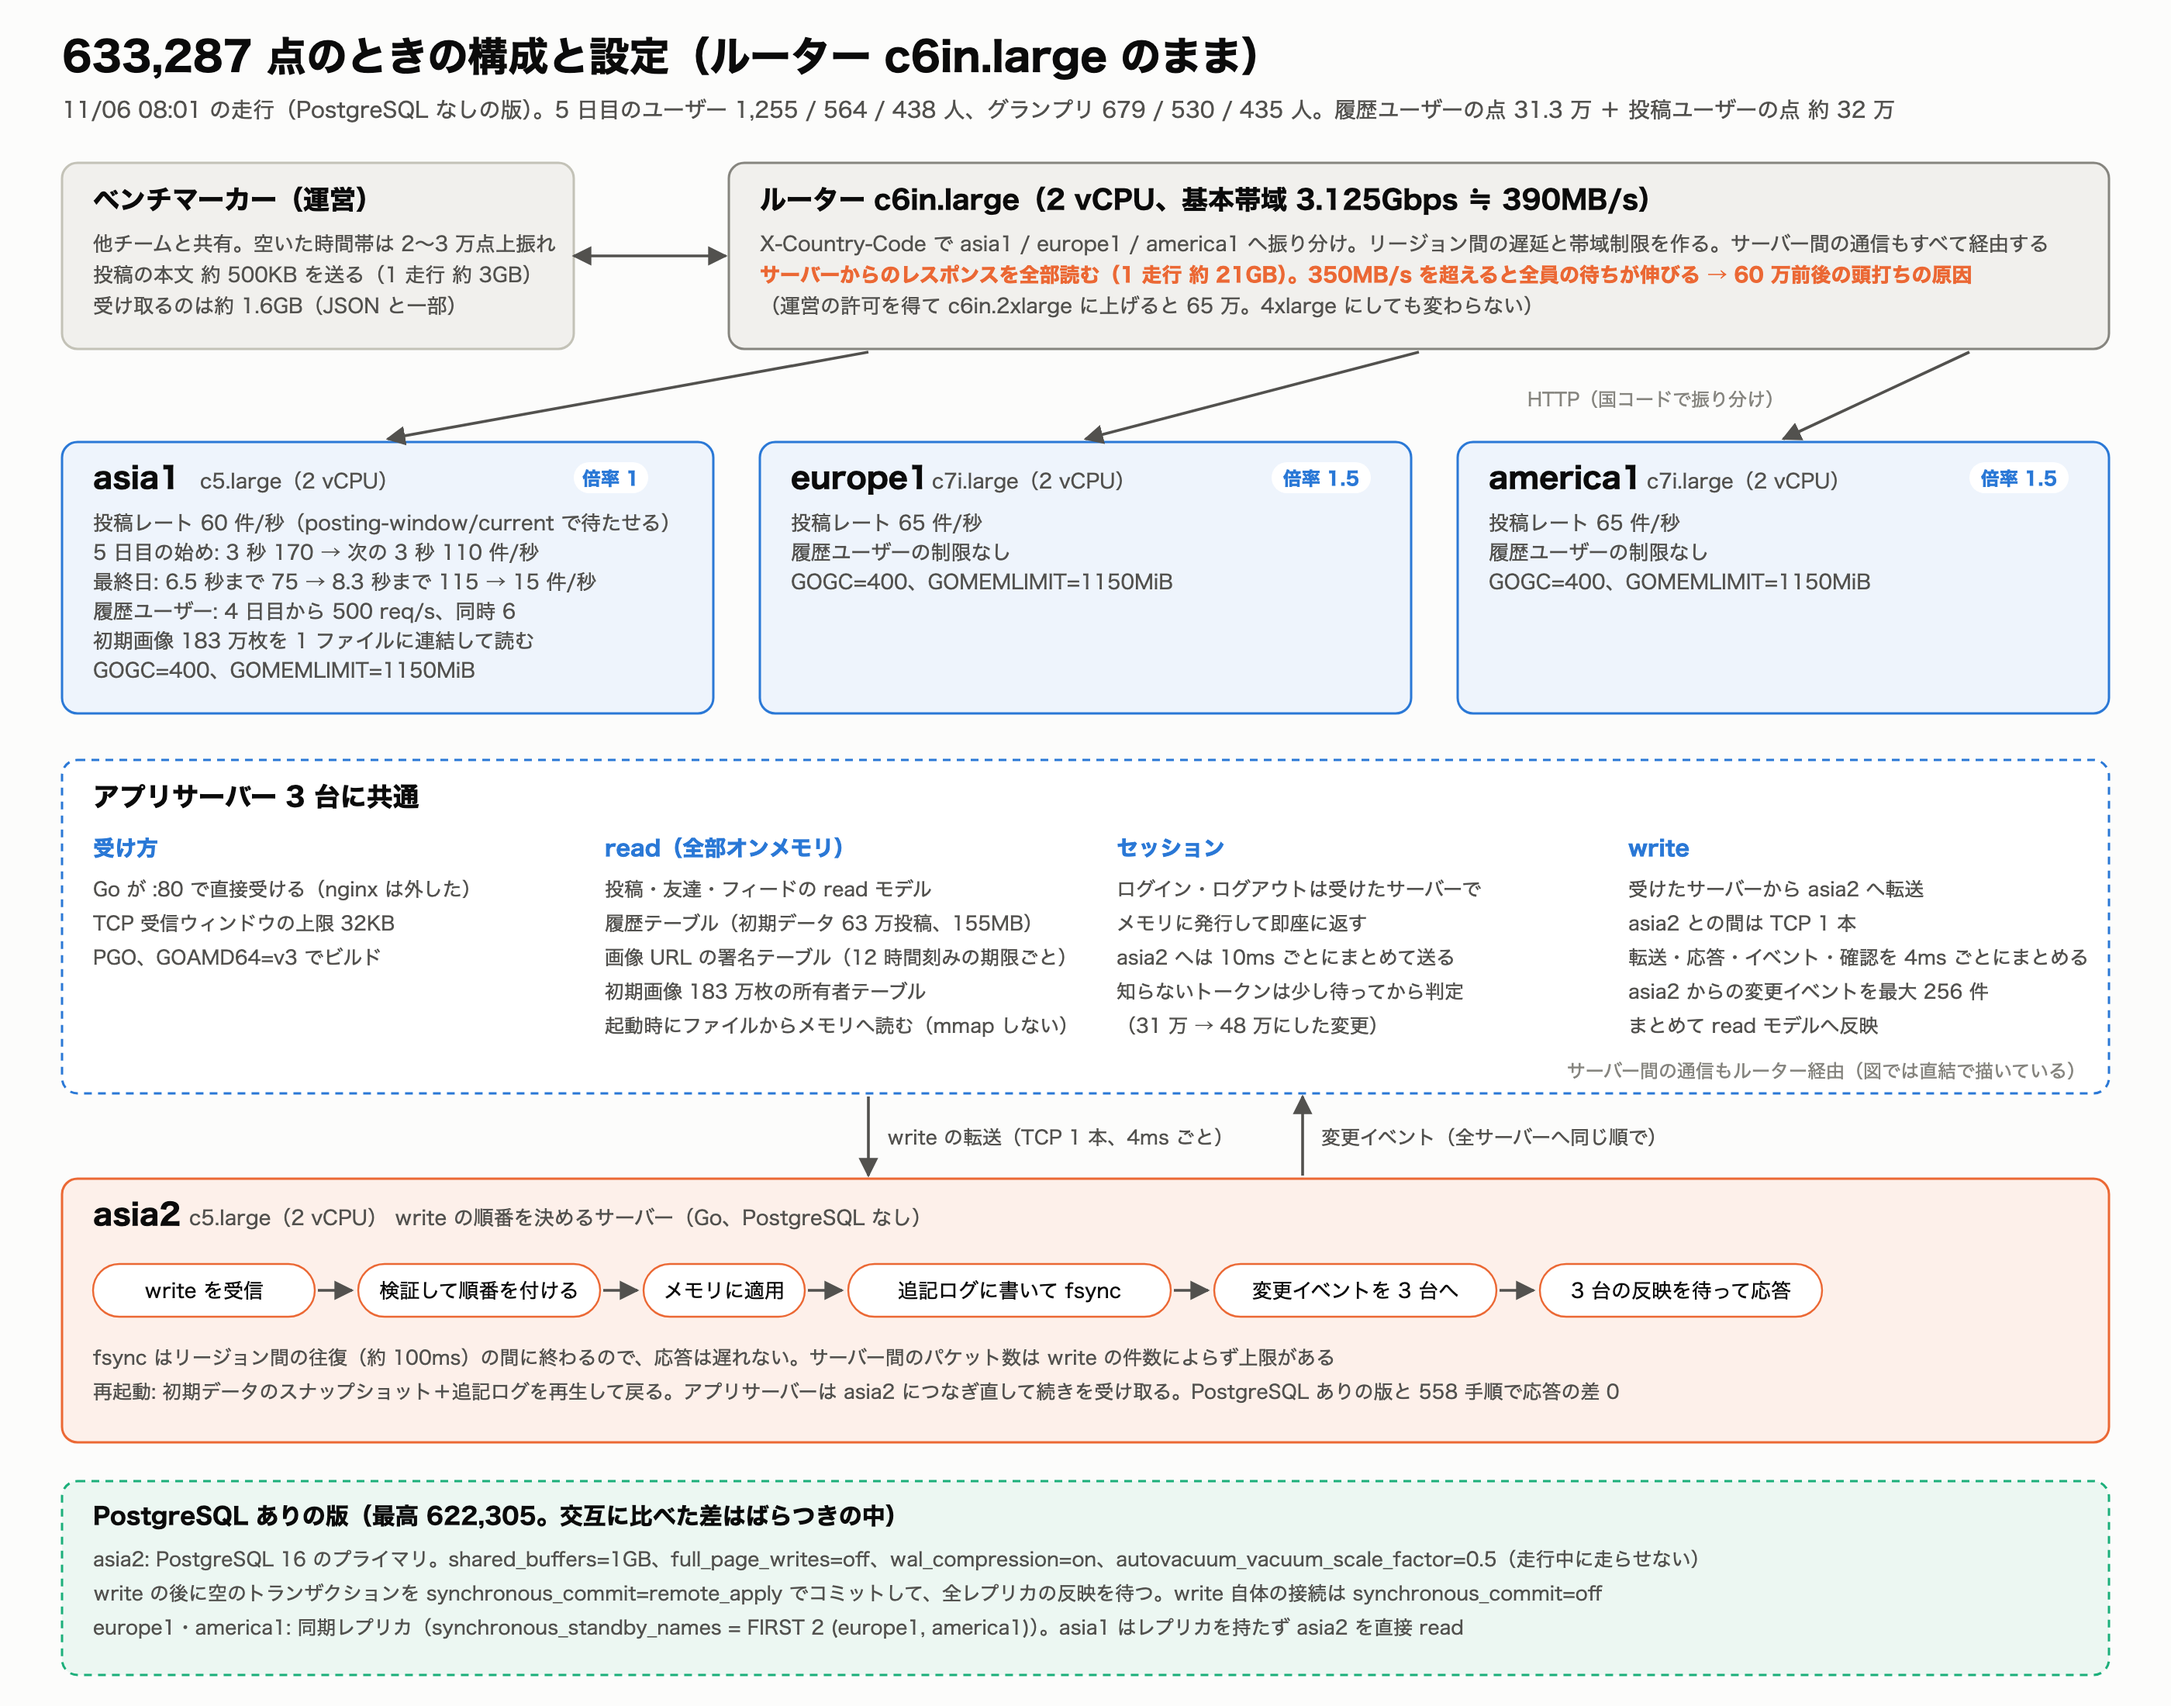
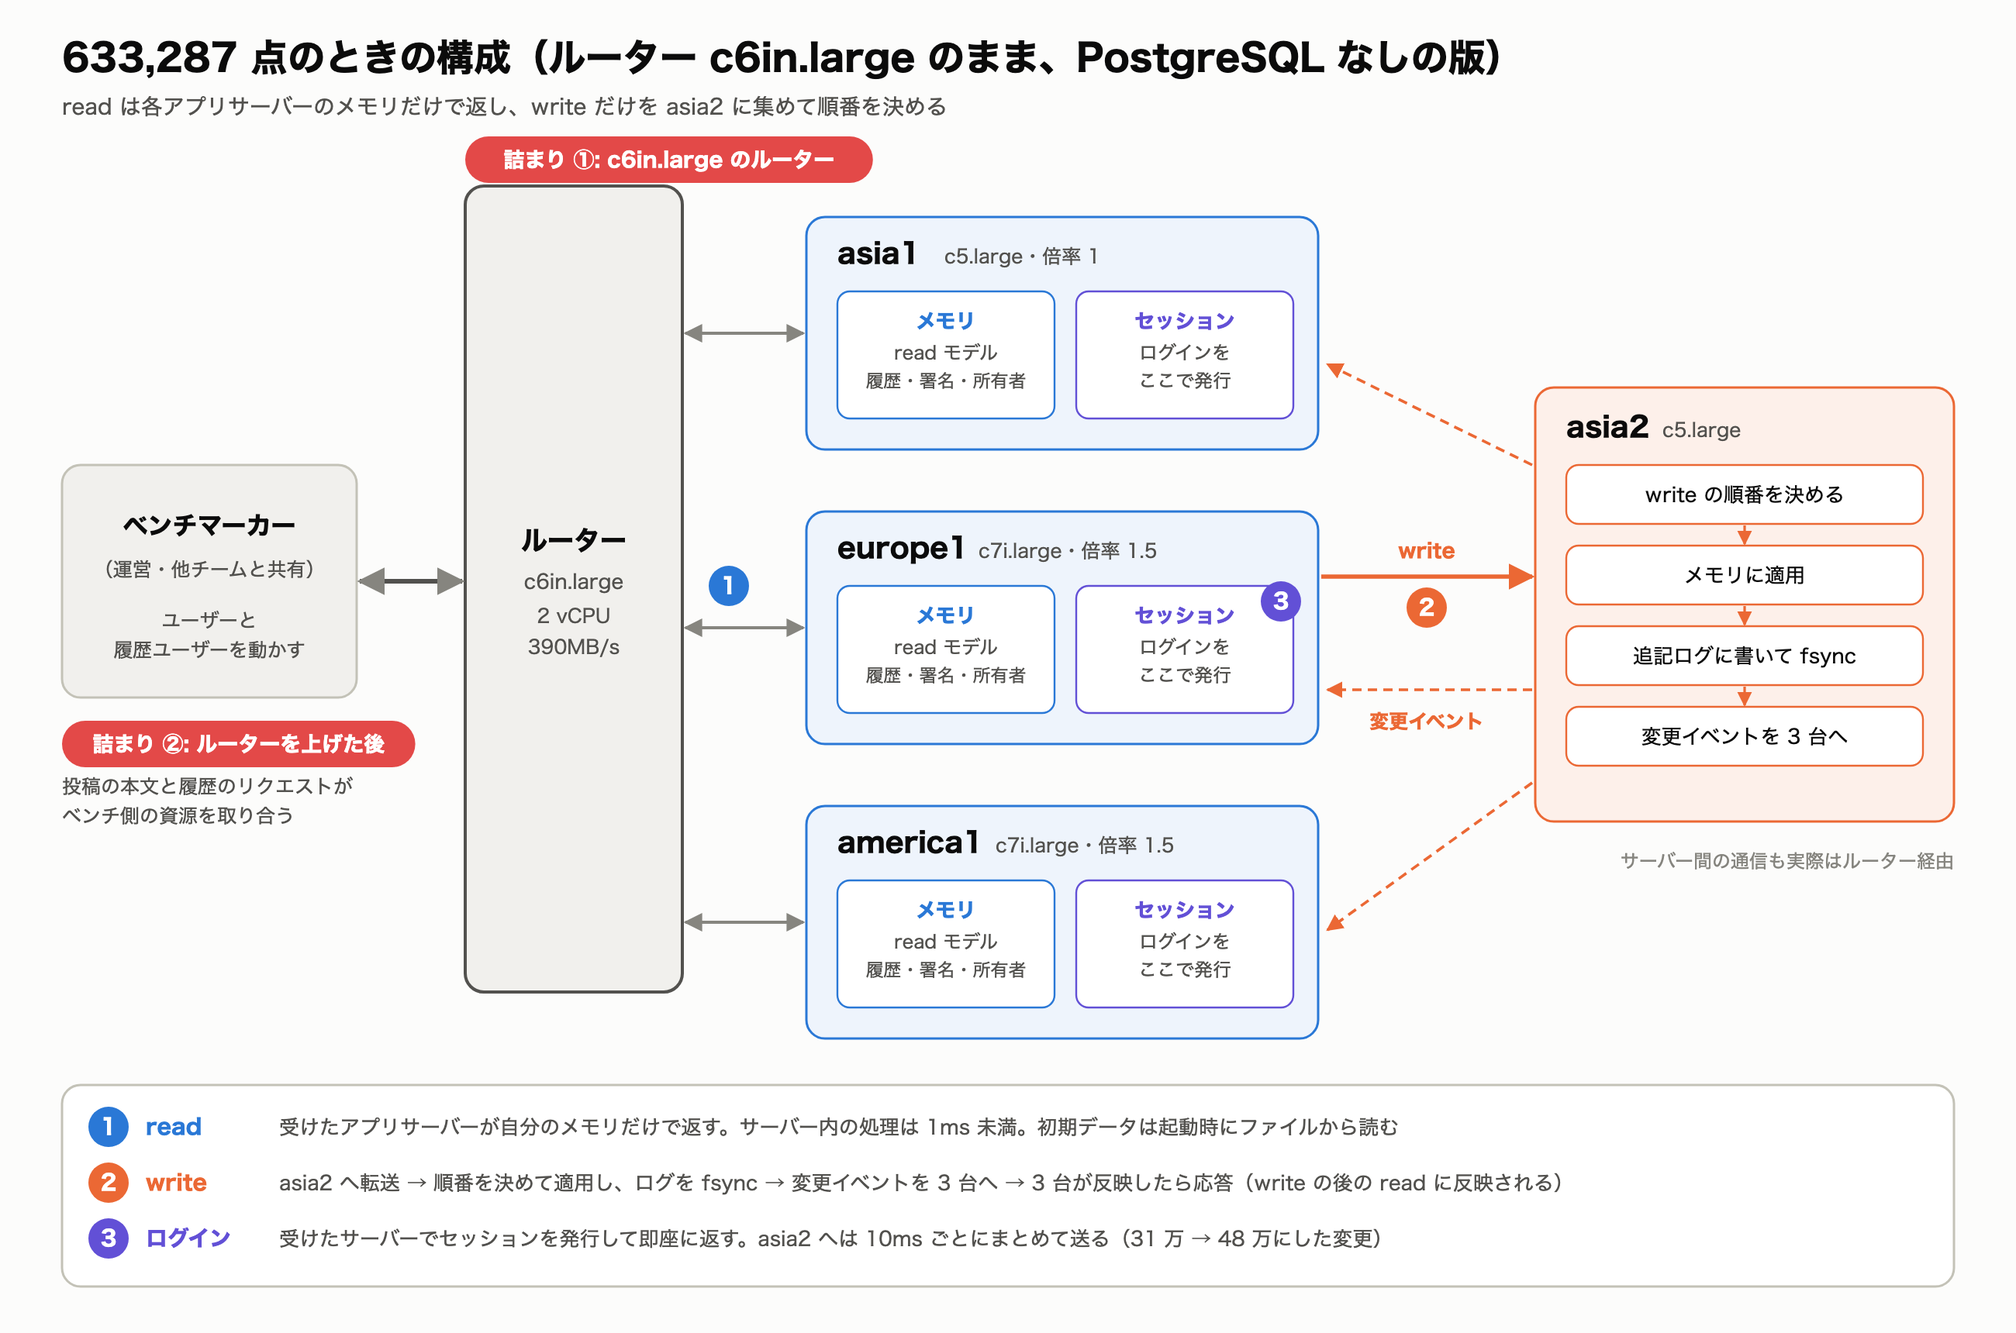
構成図を流れの図に描き直し、設定の表と構成の理由を足す
構成図は read・write・ログインの経路と詰まりの位置だけにした。
サーバーごとの設定は表の図にし、構成にした理由を判断の記録から節にまとめた。
メモリの記述（2GB）を 4GB に直す。

Claude-Session: https://claude.ai/code/session_01L2L4qgADaDYs3drh8gtj2E

diff --git a/articles/isucon2026-kansousen-630k.md b/articles/isucon2026-kansousen-630k.md
@@ -126,7 +126,7 @@ published: false
 
 ## ルーターを上げずに出した 63 万点の構成
 
-![633,287 点のときの構成と設定。ベンチマーカーとルーター、アプリサーバー 3 台の設定、3 台に共通の read・セッション・write の仕組み、write の順番を決める asia2、PostgreSQL ありの版の設定](/images/isucon2026-architecture-630k.png)
+![633,287 点のときの構成。ベンチマーカーからルーターを通って asia1・europe1・america1 に届き、read は各サーバーのメモリで返し、write は asia2 で順番を決めて変更イベントを 3 台へ流す。ログインは受けたサーバーで発行する。詰まりはルーターと、ルーターを上げた後はベンチ側](/images/isucon2026-architecture-630k.png)
 
 最高の 633,287 点（11/06 朝 8 時の走行）は、PostgreSQL をなくした版で出ました。PostgreSQL ありの版の最高は 622,305 点で、交互に比べた差はばらつきの中です。どちらも、アプリの外側の設定は同じです。
 
@@ -143,6 +143,27 @@ published: false
 - write は受けたサーバーから asia2 へ転送します。asia2 が順番を決めて適用し、変更イベントを 3 台へ流します。3 台が適用し終えてからレスポンスを返すので、「write の後の read には反映する」という決まりを守れます。
 - ログイン・ログアウトだけは、受けたサーバーで処理します（上の 48 万の節）。
 
+### なぜこの形にしたか
+
+どれも、エージェントが判断の記録に「見たもの → 考え → 決めたこと」として残したものです。
+
+| 決めたこと | 理由（見たもの） |
+|---|---|
+| read を各アプリサーバーのメモリで返す | リージョン間の往復は約 100ms あり、リクエストの大半は read です。履歴ユーザーは closed-loop なので、read が速いほど点になります。DB から read していたときは、asia1 が CPU とディスク（gp3 の 3,000 IOPS）で飽和していました |
+| write を asia2 の 1 台に集める | 1 か所で順番を決めれば、3 台が同じ順に反映でき、整合性を保ちやすくなります。asia2 はユーザーの最も多い asia にあるので、asia の write はリージョン内で済みます。CPU の速い europe1（c7i）に移す案もありましたが、asia の write が全部 100ms の往復を払うことになるので採りませんでした |
+| 3 台の反映を待ってから応答する | 「write の後の read には反映する（リージョンをまたぐ場合も同じ）」という決まりを守るためです |
+| ログインだけは受けたサーバーで処理する | ログインに配点はなく、履歴ユーザーの 1 サイクルの 9 割以上がログインの待ちでした |
+| asia1 にはレプリカを置かない（PostgreSQL ありの版） | asia2 と同じリージョンで往復が小さいからです。レプリカをやめると、WAL の適用、DB の問い合わせ、shared_buffers と画像のページキャッシュの取り合いが asia1 から消えます |
+| nginx を外し、Go が :80 で直接受ける | nginx を挟むとリクエストごとの通信が増え、asia1 の CPU の約 2 割を使っていました |
+| 履歴と署名のテーブルを起動時にメモリへ読む | mmap にしたところ、read ロックを持ったままディスクを待ち、全体が約 10 秒止まって FAIL しました |
+| 初期画像を asia1 だけ 1 ファイルに連結する | ディスクの IOPS の上限に当たっていたのは asia1 だけで、europe1・america1 には余裕がありました |
+| 署名の有効期限を 12 時間刻みにそろえる | 24 時間刻みだと、時刻によっては期限が発行から 24 時間を超え、06〜07 時（UTC）の走行が FAIL しました |
+| asia の履歴ユーザーを 4 日目から制限する | 全体が頭打ちの中では、同じ処理能力を倍率 1.5 の地域に回した方が点になります。150 req/s は絞りすぎ、1000 は緩すぎでした |
+| 投稿レートを europe・america で厚くする | 投稿の本文が集中すると全員が遅くなります。投稿 1 件の負担はどの地域も同じで、点は europe・america が 1.5 倍です |
+| 5 日目の始めと最終日の後半だけ asia を速くする | 他のリージョンの投稿期間がまだ始まっていない時間と、もう終わった時間の空きを使います |
+| TCP 受信ウィンドウの上限を 32KB にする | アップロードでルーターの中の列が伸びるのを抑えます。5〜6 日目のルーターへの ping は中央値 10ms 以下に収まり、投稿の応答も伸びませんでした |
+| PostgreSQL なしの版を作る | 「上位は PostgreSQL なしでやっている」と聞き、サーバー間の通信がルーターの負担になっているかを確かめるためです。通信は 7 割減りましたが、スコアは変わりませんでした。走行の実績が多いので、標準の版は PostgreSQL ありのままにしています |
+
 ### PostgreSQL をなくした版の中身
 
 - asia2 で Go のプロセスが write を受け、メモリに適用し、追記ログに書いて fsync します。
@@ -153,17 +174,11 @@ published: false
 
 PostgreSQL ありの版では、asia2 の PostgreSQL をプライマリ、europe1 と america1 を同期レプリカにしていました。設定は full_page_writes=off、write 接続の synchronous_commit=off、autovacuum のしきい値の引き上げです。
 
-### アプリサーバー側の主な設定
+### サーバーごとの設定
 
-| 設定 | 値 | ねらい |
-|---|---|---|
-| 投稿レート（`posting-window/current` で待たせる） | asia 60、europe・america 65 件/秒 | アップロードの集中で全員が遅くなるのを防ぐ。倍率 1.5 の地域を厚く |
-| 5 日目の始めの asia の投稿レート | 最初の 3 秒 170、次の 3 秒 110 件/秒 | 他リージョンの投稿期間が始まる前の空き帯域を使う |
-| 最終日の asia の投稿レート | 6.5 秒まで 75、8.3 秒まで 115、最後 15 件/秒 | europe・america の投稿が終わった後半の空きを使う |
-| asia の履歴ユーザーの上限 | 4 日目から 500 req/s、同時 6 | 処理能力を倍率 1.5 の地域へ回す |
-| TCP 受信ウィンドウの上限 | 32KB | アップロードでルーターの中の列が伸びすぎないようにする |
-| GOGC / GOMEMLIMIT | 400 / 1150MiB（asia1） | 2GB メモリで GC を減らす |
-| ビルド | PGO、GOAMD64=v3 | 効果は 2% 以下。損はないので入れたまま |
+![633,287 点のときのサーバーごとの設定。asia1・europe1・america1・asia2 の列に、役割、投稿レート、5 日目と最終日の投稿レート、履歴ユーザーの制限、初期画像の置き方、read 用のデータ、セッション、write、署名、TCP 受信ウィンドウ、GOGC と GOMEMLIMIT、ビルド、sysctl を並べた表](/images/isucon2026-settings-630k.png)
+
+GOGC=400、GOMEMLIMIT=1150MiB は、メモリ 4GB のうち履歴と署名のテーブル（約 240MB）と画像のページキャッシュを残しつつ、GC の回数を減らすための値です。
 
 ### このときのスコアの内訳
 
